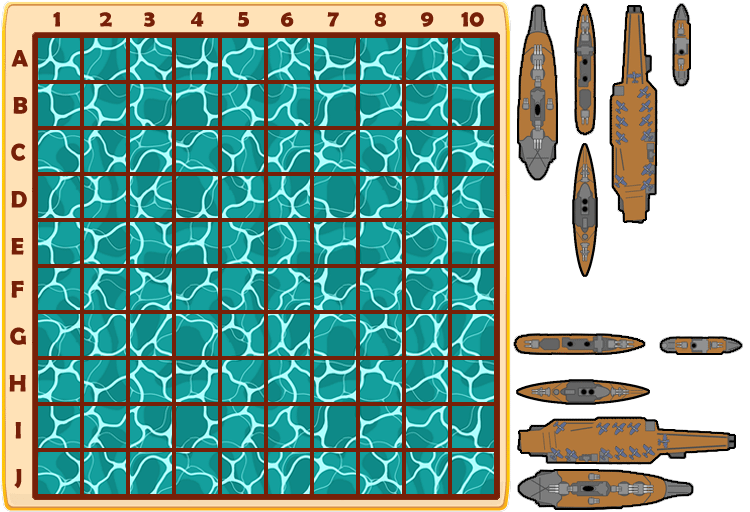
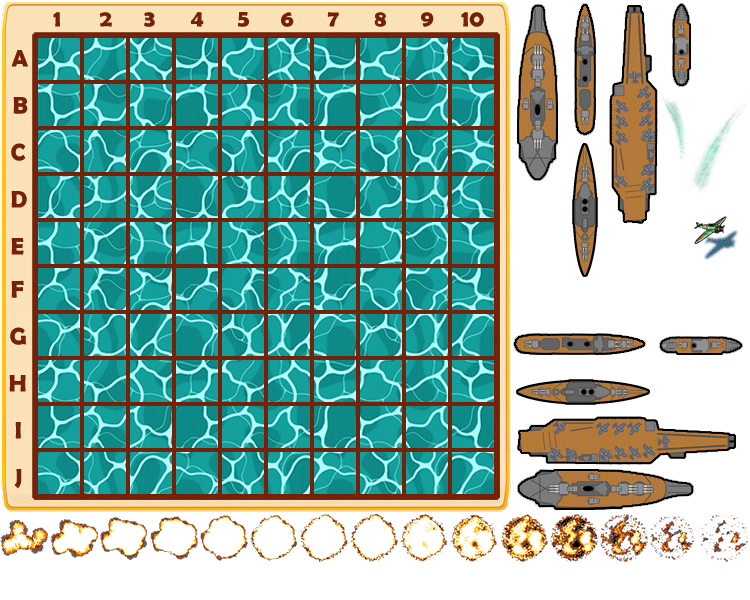
Add battleship assets for animation

diff --git a/game/games/battleship/battleship.js b/game/games/battleship/battleship.js
@@ -30,18 +30,7 @@ export default class BattleshipGame {
   constructor() {
     this.gameName = 'Battleship';
 
-    this.gameActive = false;
-    this.player1 = undefined;
-    this.player2 = undefined;
-    this.turn = undefined;
-    this.gameState = 0;
-    this.placementUI = undefined;
-    this.titleBoard = undefined;
-    this.player1Board = undefined;
-    this.player2Board = undefined;
-
-    // Aim Stage Temp Params
-    this.shots = [];
+    this.reset();
   }
 
   handleEvent(evtId, e, camContext) {
@@ -99,7 +88,9 @@ export default class BattleshipGame {
           x: shot.x,
           y: shot.y,
         }));
-        myBoard.updateAlive();
+
+        this.animateShots(result);
+        // myBoard.updateAlive();
         this.sendNetworkUpdate({
           action: { move: 'fireReply', result },
         });
@@ -119,7 +110,7 @@ export default class BattleshipGame {
           oppBoard.setGridStateAtPosition(shot.x, shot.y,
             shot.result ? BattleshipBoard.STATE.HIT : BattleshipBoard.STATE.MISS);
         });
-        oppBoard.updateAlive();
+        // oppBoard.updateAlive();
         const winner = this.checkWin();
         if (winner > 0) {
           this.titleBoard.setState(2 + winner);
@@ -185,7 +176,13 @@ export default class BattleshipGame {
     this.titleBoard = undefined;
     this.player1Board = undefined;
     this.player2Board = undefined;
+
+    // Aim Stage Temp Params
     this.shots = [];
+
+    // Animation Control
+    this.animationList = undefined;
+    this.currentFrame = undefined;
   }
 
   updateState(state) {
@@ -243,8 +240,17 @@ export default class BattleshipGame {
       leftBoard.draw(ctx, marginLeft, marginTop + titleHeight, boardSize);
       rightBoard.draw(ctx, marginLeft + margin + boardSize,
         marginTop + titleHeight, boardSize);
+
+      // Animation Layer
+      if (this.animationList !== undefined && this.animationList.length > 0) {
+        // Run Animation
+      }
     }
     this.titleBoard.draw(ctx, marginLeft, marginTop, boardSize * 2 + margin, titleHeight);
+  }
+
+  animateShots(shots) {
+    this.animationList = shots;
   }
 
   placementComplete() {

diff --git a/game/workers/asset-loader.js b/game/workers/asset-loader.js
@@ -107,6 +107,13 @@ export default function loadAssets() {
         spriteManager.registerSprite('battleship-cl', new Sprite(x, 514, 370, 138, 46));
         spriteManager.registerSprite('battleship-dd', new Sprite(x, 514, 322, 138, 46));
         spriteManager.registerSprite('battleship-ao', new Sprite(x, 654, 322, 92, 46));
+
+        const explosion = AnimatableSprite.generateFromTiledFrames(x, 0, 514, 48, 48, 50, 0, 15);
+        spriteManager.registerSprite('battleship-explosion', explosion);
+
+        spriteManager.registerSprite('battleship-fire', new Sprite(x, 688, 94, 62, 100));
+        spriteManager.registerSprite('battleship-receive', new Sprite(x, 658, 94, 30, 100));
+        spriteManager.registerSprite('battleship-plane', new Sprite(x, 694, 216, 46, 45));
       });
 
     Promise.all([load1, load2, load3, load4, load5]).then(resolve);
